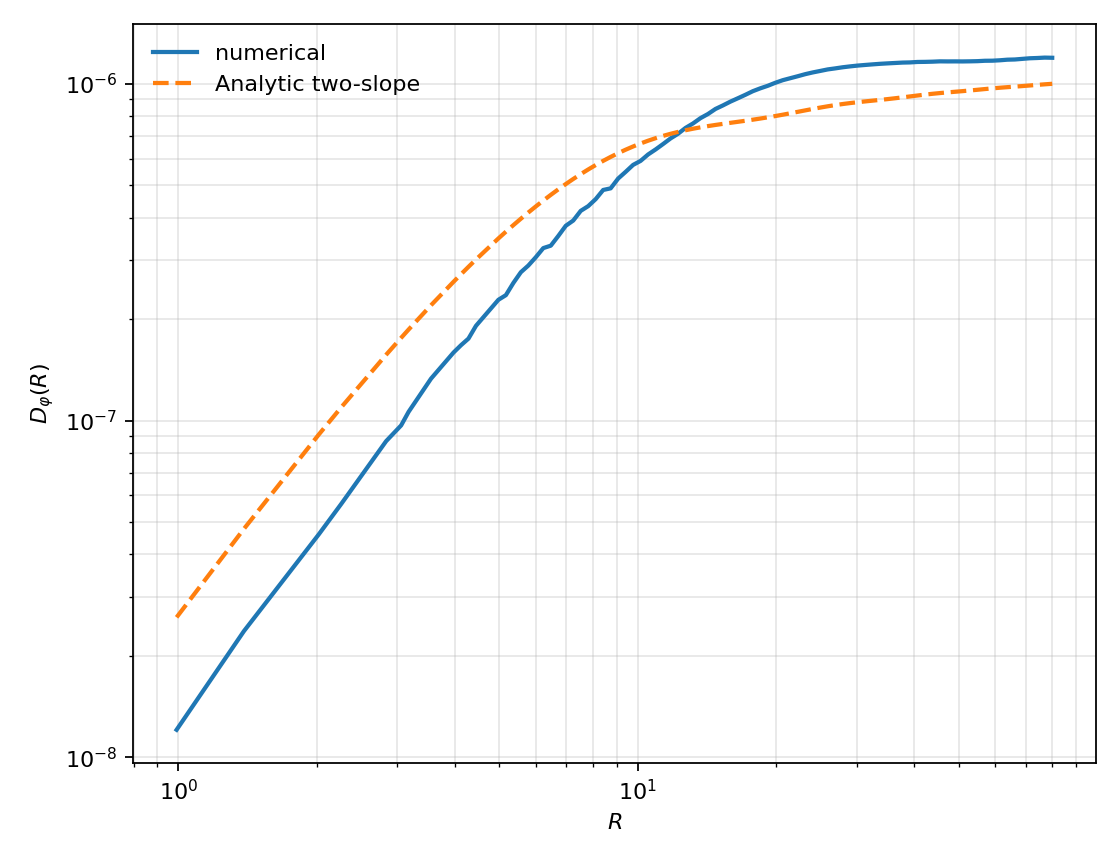
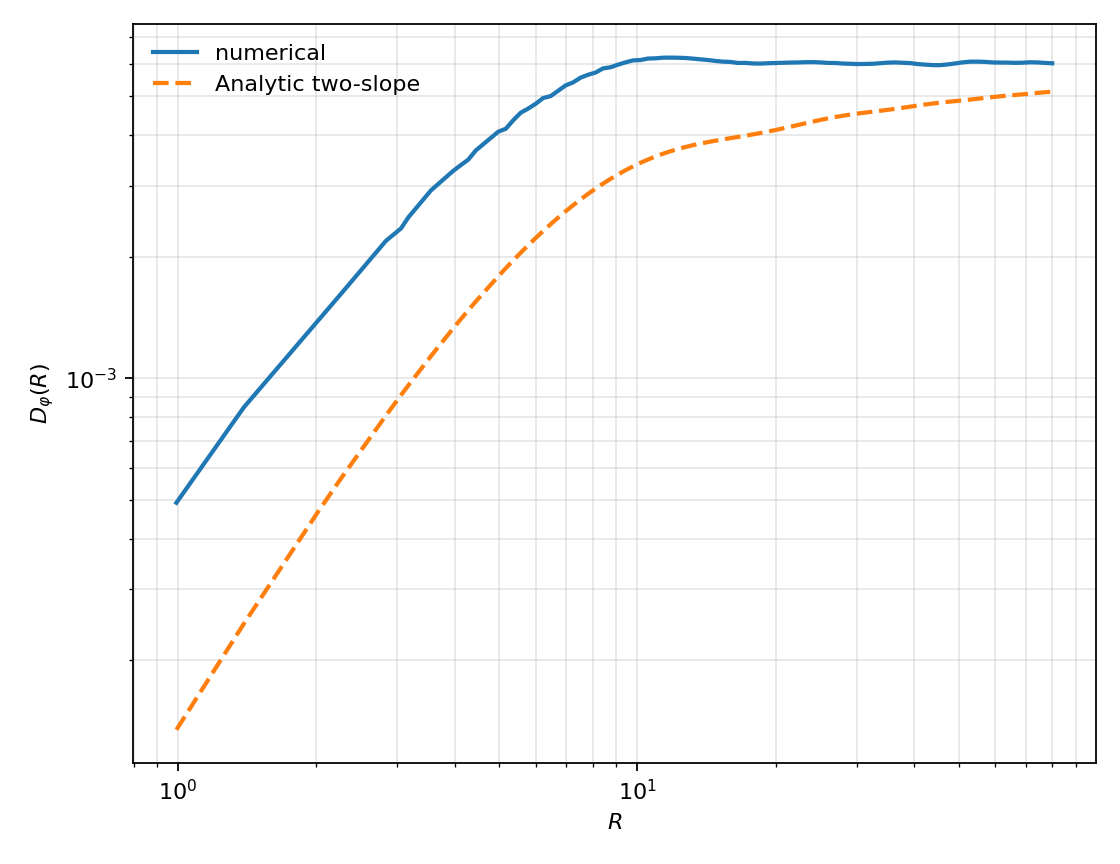
Update smoothed-transition synthetic cube directional structure plot

diff --git a/interferometer/directional spectrum/strucure_function/structure_function.py b/interferometer/directional spectrum/strucure_function/structure_function.py
@@ -45,7 +45,7 @@ from scipy.special import j0  # Bessel J0
 @dataclass
 class Config:
     # <<< set your path here >>>
-    h5_path: str = "../../../faradays_angles_stats/lp_structure_tests/mhd_fields.h5"
+    h5_path: str = "../../../faradays_angles_stats/lp_structure_tests/transition_smoothness.h5"#mhd_fields.h5"
 
     outdir: str = "fig/two_slope_compare"
 
